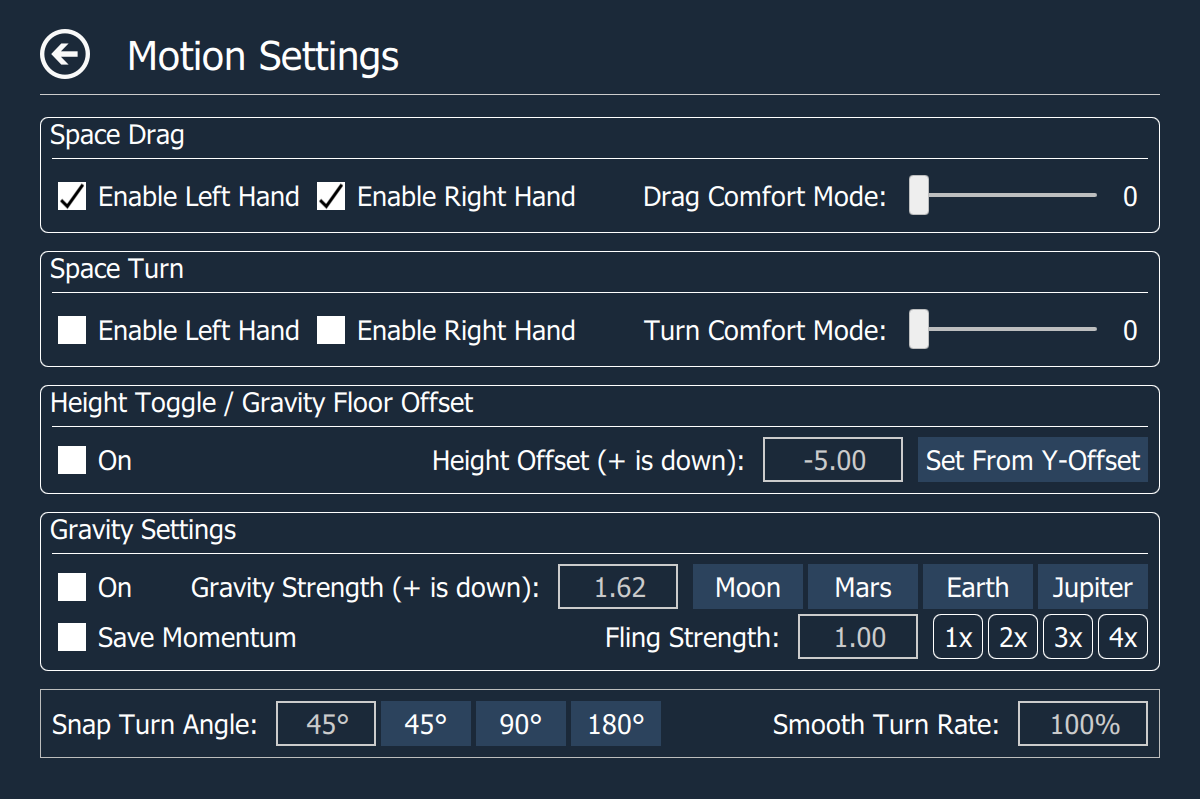
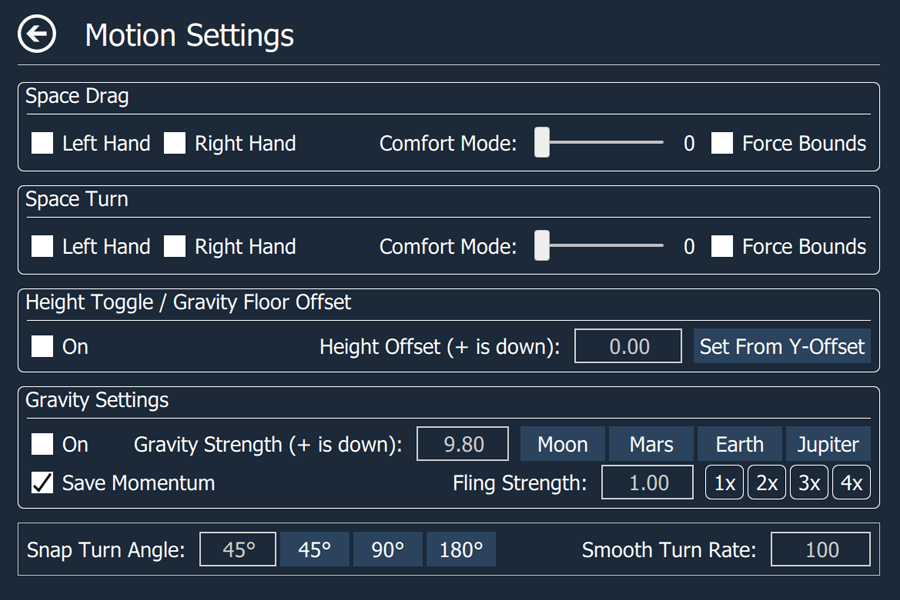
Patch WMR Floor Fix and add Force Bounds on motion (#237)
* Update FixFloorTabController.cpp

Adds an extra offsets tab reset after floor fix to make sure the fix is visible for WMR users.

* Add Force Bounds on Motion

Adds forcing chaperone bounds on space-turn and space-drag. Addresses #183

* Update Motion Page Screenshot for Force Bounds

* Update docs for Force Bounds on motion options

Changed region(s): [[0.0, 0.0, 0.9956, 0.96]]

diff --git a/src/res/qml/motion_page/space_drag/SpaceDragGroupBox.qml b/src/res/qml/motion_page/space_drag/SpaceDragGroupBox.qml
@@ -34,7 +34,7 @@ GroupBox {
 
             MyToggleButton {
                 id: moveShortcutLeft
-                text: "Enable Left Hand"
+                text: "Left Hand"
                 onCheckedChanged: {
                     MoveCenterTabController.moveShortcutLeft = this.checked
                 }
@@ -42,7 +42,7 @@ GroupBox {
 
             MyToggleButton {
                 id: moveShortcutRight
-                text: "Enable Right Hand"
+                text: "Right Hand"
                 onCheckedChanged: {
                     MoveCenterTabController.moveShortcutRight = this.checked
                 }
@@ -53,7 +53,7 @@ GroupBox {
             }
 
             MyText {
-                text: "Drag Comfort Mode:"
+                text: "Comfort Mode:"
                 horizontalAlignment: Text.AlignRight
                 Layout.rightMargin: 10
             }
@@ -64,7 +64,7 @@ GroupBox {
                 to: 10
                 stepSize: 1
                 value: 0
-                Layout.preferredWidth: 200
+                Layout.preferredWidth: 180
                 Layout.alignment: Qt.AlignVCenter | Qt.AlignRight
                 onValueChanged: {
                     dragComfortText.text = dragComfortSlider.value
@@ -79,6 +79,14 @@ GroupBox {
                 Layout.preferredWidth: 30
                 Layout.rightMargin: 10
             }
+
+            MyToggleButton {
+                id: dragBounds
+                text: "Force Bounds"
+                onCheckedChanged: {
+                    MoveCenterTabController.dragBounds = this.checked
+                }
+            }
         }
     }
 
@@ -86,6 +94,7 @@ GroupBox {
         moveShortcutLeft.checked = MoveCenterTabController.moveShortcutLeft
         moveShortcutRight.checked = MoveCenterTabController.moveShortcutRight
         dragComfortSlider.value = MoveCenterTabController.dragComfortFactor
+        dragBounds.checked = MoveCenterTabController.dragBounds
     }
 
     Connections {
@@ -99,6 +108,9 @@ GroupBox {
         }
         onDragComfortFactorChanged: {
             dragComfortSlider.value = MoveCenterTabController.dragComfortFactor
+        }
+        onDragBoundsChanged: {
+            dragBounds.checked = MoveCenterTabController.dragBounds
         }
     }
 }

diff --git a/src/res/qml/motion_page/space_turn/SpaceTurnGroupBox.qml b/src/res/qml/motion_page/space_turn/SpaceTurnGroupBox.qml
@@ -34,7 +34,7 @@ GroupBox {
 
             MyToggleButton {
                 id: turnBindLeft
-                text: "Enable Left Hand"
+                text: "Left Hand"
                 onCheckedChanged: {
                     MoveCenterTabController.turnBindLeft = this.checked
                 }
@@ -42,7 +42,7 @@ GroupBox {
 
             MyToggleButton {
                 id: turnBindRight
-                text: "Enable Right Hand"
+                text: "Right Hand"
                 onCheckedChanged: {
                     MoveCenterTabController.turnBindRight = this.checked
                 }
@@ -53,7 +53,7 @@ GroupBox {
             }
 
             MyText {
-                text: "Turn Comfort Mode:"
+                text: "Comfort Mode:"
                 horizontalAlignment: Text.AlignRight
                 Layout.rightMargin: 10
             }
@@ -64,7 +64,7 @@ GroupBox {
                 to: 10
                 stepSize: 1
                 value: 0
-                Layout.preferredWidth: 200
+                Layout.preferredWidth: 180
                 Layout.alignment: Qt.AlignVCenter | Qt.AlignRight
                 onValueChanged: {
                     turnComfortText.text = turnComfortSlider.value
@@ -79,6 +79,14 @@ GroupBox {
                 Layout.preferredWidth: 30
                 Layout.rightMargin: 10
             }
+
+            MyToggleButton {
+                id: turnBounds
+                text: "Force Bounds"
+                onCheckedChanged: {
+                    MoveCenterTabController.turnBounds = this.checked
+                }
+            }
         }
     }
 
@@ -86,6 +94,7 @@ GroupBox {
         turnBindLeft.checked = MoveCenterTabController.turnBindLeft
         turnBindRight.checked = MoveCenterTabController.turnBindRight
         turnComfortSlider.value = MoveCenterTabController.turnComfortFactor
+        turnBounds.checked = MoveCenterTabController.turnBounds
     }
 
     Connections {
@@ -99,6 +108,9 @@ GroupBox {
         }
         onTurnComfortFactorChanged: {
             turnComfortSlider.value = MoveCenterTabController.turnComfortFactor
+        }
+        onTurnBoundsChanged: {
+            turnBounds.checked = MoveCenterTabController.turnBounds
         }
     }
 }

diff --git a/src/tabcontrollers/MoveCenterTabController.cpp b/src/tabcontrollers/MoveCenterTabController.cpp
@@ -68,6 +68,16 @@ void MoveCenterTabController::initStage1()
     {
         m_settingsRightHandTurnEnabled = value.toBool();
     }
+    value = settings->value( "dragBounds", m_dragBounds );
+    if ( value.isValid() && !value.isNull() )
+    {
+        m_dragBounds = value.toBool();
+    }
+    value = settings->value( "turnBounds", m_turnBounds );
+    if ( value.isValid() && !value.isNull() )
+    {
+        m_turnBounds = value.toBool();
+    }
     value = settings->value( "dragComfortFactor", m_dragComfortFactor );
     if ( value.isValid() && !value.isNull() )
     {
@@ -213,6 +223,14 @@ void MoveCenterTabController::outputLogSettings()
     if ( m_universeCenteredRotation )
     {
         LOG( INFO ) << "LOADED SETTINGS: Universe-Centered Rotation Enabled";
+    }
+    if ( m_dragBounds )
+    {
+        LOG( INFO ) << "LOADED SETTINGS: Space Drag Force Bounds Enabled";
+    }
+    if ( m_turnBounds )
+    {
+        LOG( INFO ) << "LOADED SETTINGS: Space Turn Force Bounds Enabled";
     }
 }
 
@@ -636,6 +654,62 @@ void MoveCenterTabController::setTurnBindRight( bool value, bool notify )
     }
     LOG( INFO ) << "CHANGED SETTINGS: Right Hand Space-Turn Bind Enable Set: "
                 << m_settingsRightHandTurnEnabled;
+}
+
+bool MoveCenterTabController::dragBounds() const
+{
+    return m_dragBounds;
+}
+
+void MoveCenterTabController::setDragBounds( bool value, bool notify )
+{
+    // detect deactivate
+    if ( m_dragBounds && !value )
+    {
+        // set force bounds back to default on deactivate
+        vr::VRChaperone()->ForceBoundsVisible(
+            parent->m_chaperoneTabController.forceBounds() );
+    }
+    m_dragBounds = value;
+    auto settings = OverlayController::appSettings();
+    settings->beginGroup( "playspaceSettings" );
+    settings->setValue( "dragBounds", m_dragBounds );
+    settings->endGroup();
+    settings->sync();
+    if ( notify )
+    {
+        emit dragBoundsChanged( m_dragBounds );
+    }
+    LOG( INFO ) << "CHANGED SETTINGS: Space Drag Force Bounds set: "
+                << m_dragBounds;
+}
+
+bool MoveCenterTabController::turnBounds() const
+{
+    return m_turnBounds;
+}
+
+void MoveCenterTabController::setTurnBounds( bool value, bool notify )
+{
+    // detect deactivate
+    if ( m_turnBounds && !value )
+    {
+        // set force bounds back to default on deactivate
+        vr::VRChaperone()->ForceBoundsVisible(
+            parent->m_chaperoneTabController.forceBounds() );
+    }
+    m_turnBounds = value;
+    auto settings = OverlayController::appSettings();
+    settings->beginGroup( "playspaceSettings" );
+    settings->setValue( "turnBounds", m_turnBounds );
+    settings->endGroup();
+    settings->sync();
+    if ( notify )
+    {
+        emit turnBoundsChanged( m_turnBounds );
+    }
+    LOG( INFO ) << "CHANGED SETTINGS: Space Turn Force Bounds set: "
+                << m_turnBounds;
 }
 
 unsigned MoveCenterTabController::dragComfortFactor() const
@@ -2588,6 +2662,24 @@ void MoveCenterTabController::eventLoopTick(
                 // in the time motion was paused during the open dash
                 m_lastDragUpdateTimePoint = std::chrono::steady_clock::now();
                 m_lastGravityUpdateTimePoint = std::chrono::steady_clock::now();
+            }
+
+            // force chaperone bounds visible if turn or drag settings require
+            if ( m_dragBounds
+                 && m_activeDragHand != vr::TrackedControllerRole_Invalid )
+            {
+                vr::VRChaperone()->ForceBoundsVisible( true );
+            }
+            else if ( m_turnBounds
+                      && m_activeTurnHand != vr::TrackedControllerRole_Invalid )
+            {
+                vr::VRChaperone()->ForceBoundsVisible( true );
+            }
+            // only set back to default every frame if setting is enabled
+            else if ( m_turnBounds || m_dragBounds )
+            {
+                vr::VRChaperone()->ForceBoundsVisible(
+                    parent->m_chaperoneTabController.forceBounds() );
             }
 
             // Smooth turn motion can cause sim-sickness so we check if the user

diff --git a/src/tabcontrollers/MoveCenterTabController.h b/src/tabcontrollers/MoveCenterTabController.h
@@ -48,6 +48,10 @@ class MoveCenterTabController : public QObject
                     turnBindLeftChanged )
     Q_PROPERTY( bool turnBindRight READ turnBindRight WRITE setTurnBindRight
                     NOTIFY turnBindRightChanged )
+    Q_PROPERTY( bool dragBounds READ dragBounds WRITE setDragBounds NOTIFY
+                    dragBoundsChanged )
+    Q_PROPERTY( bool turnBounds READ turnBounds WRITE setTurnBounds NOTIFY
+                    turnBoundsChanged )
     Q_PROPERTY( unsigned dragComfortFactor READ dragComfortFactor WRITE
                     setDragComfortFactor NOTIFY dragComfortFactorChanged )
     Q_PROPERTY( unsigned turnComfortFactor READ turnComfortFactor WRITE
@@ -108,6 +112,8 @@ private:
     bool m_settingsRightHandTurnEnabled = false;
     unsigned m_dragComfortFactor = 0;
     unsigned m_turnComfortFactor = 0;
+    bool m_dragBounds = false;
+    bool m_turnBounds = false;
     bool m_heightToggle = false;
     float m_heightToggleOffset = -1.0f;
     float m_gravityFloor = 0.0f;
@@ -203,6 +209,8 @@ public:
     bool moveShortcutLeft() const;
     bool turnBindRight() const;
     bool turnBindLeft() const;
+    bool dragBounds() const;
+    bool turnBounds() const;
     unsigned dragComfortFactor() const;
     unsigned turnComfortFactor() const;
     bool heightToggle() const;
@@ -265,6 +273,8 @@ public slots:
     void setTurnBindLeft( bool value, bool notify = true );
     void setDragComfortFactor( unsigned value, bool notify = true );
     void setTurnComfortFactor( unsigned value, bool notify = true );
+    void setDragBounds( bool value, bool notify = true );
+    void setTurnBounds( bool value, bool notify = true );
     void setHeightToggle( bool value, bool notify = true );
     void setHeightToggleOffset( float value, bool notify = true );
     void setGravityStrength( float value, bool notify = true );
@@ -304,6 +314,8 @@ signals:
     void moveShortcutLeftChanged( bool value );
     void turnBindRightChanged( bool value );
     void turnBindLeftChanged( bool value );
+    void dragBoundsChanged( bool value );
+    void turnBoundsChanged( bool value );
     void dragComfortFactorChanged( unsigned value );
     void turnComfortFactorChanged( unsigned value );
     void heightToggleChanged( bool value );

diff --git a/src/tabcontrollers/FixFloorTabController.cpp b/src/tabcontrollers/FixFloorTabController.cpp
@@ -221,6 +221,8 @@ void FixFloorTabController::eventLoopTick(
                 setCanUndo( true );
                 state = 0;
                 parent->m_moveCenterTabController.zeroOffsets();
+                // this reset fixes a bug where fixed floor wouldn't show in WMR
+                parent->m_moveCenterTabController.reset();
             }
         }
     }

diff --git a/Readme.md b/Readme.md
@@ -286,11 +286,13 @@ Allows users to temporarily move and rotate the center of the playspace. This al
 <img src="docs/screenshots/MotionPage.png" width="600" alt="Motion Page">
 
 - **Space Drag**: Allows shifting your playspace by dragging your controller, Binds must be set via SteamVR Input system.
-  - **Enable Left/Right Hand**: Toggles functionality (must be active in addition to binding via input system to work.)
-  - **Drag Comfort Mode**: Limits the rate at which your movement updates, reducing smoothness so that perceived motion starts to feel more like mini-teleports. Higher values reduce smoothness more.
+  - **Left/Right Hand**: Toggles functionality (must be active in addition to binding via input system to work.)
+  - **Comfort Mode**: Limits the rate at which your movement updates, reducing smoothness so that perceived motion starts to feel more like mini-teleports. Higher values reduce smoothness more.
+  - **Force Bounds**: Forces the display of the chaperone bounds during Space Drag.
 - **Space Turn**: Allows rotating your playspace by rotating your controller. Binds must be set via SteamVR Input system.
-  - **Enable Left/Right Hand**: Toggles functionality (must be active in addition to binding via input system to work.)
-  - **Turn Comfort Mode**: Limits the rate at which your rotation updates, reducing smoothness so that perceived rotation starts to feel more like mini-snap-turns. Higher values reduce smoothness more.
+  - **Left/Right Hand**: Toggles functionality (must be active in addition to binding via input system to work.)
+  - **Comfort Mode**: Limits the rate at which your rotation updates, reducing smoothness so that perceived rotation starts to feel more like mini-snap-turns. Higher values reduce smoothness more.
+  - **Force Bounds**: Forces the display of the chaperone bounds during Space Turn.
 - **Height Toggle**: Toggle between zero and an offset for gravity floor height. If gravity is inactive the user is also moved to this offset. (Example: allows for quick switching between a seated and standing height.) Can be bound via SteamVr Input System.
   - **On**: Current toggle state, Binds directly modify this.
   - **Height Offset**: The amount of the offset (+ is down.)
